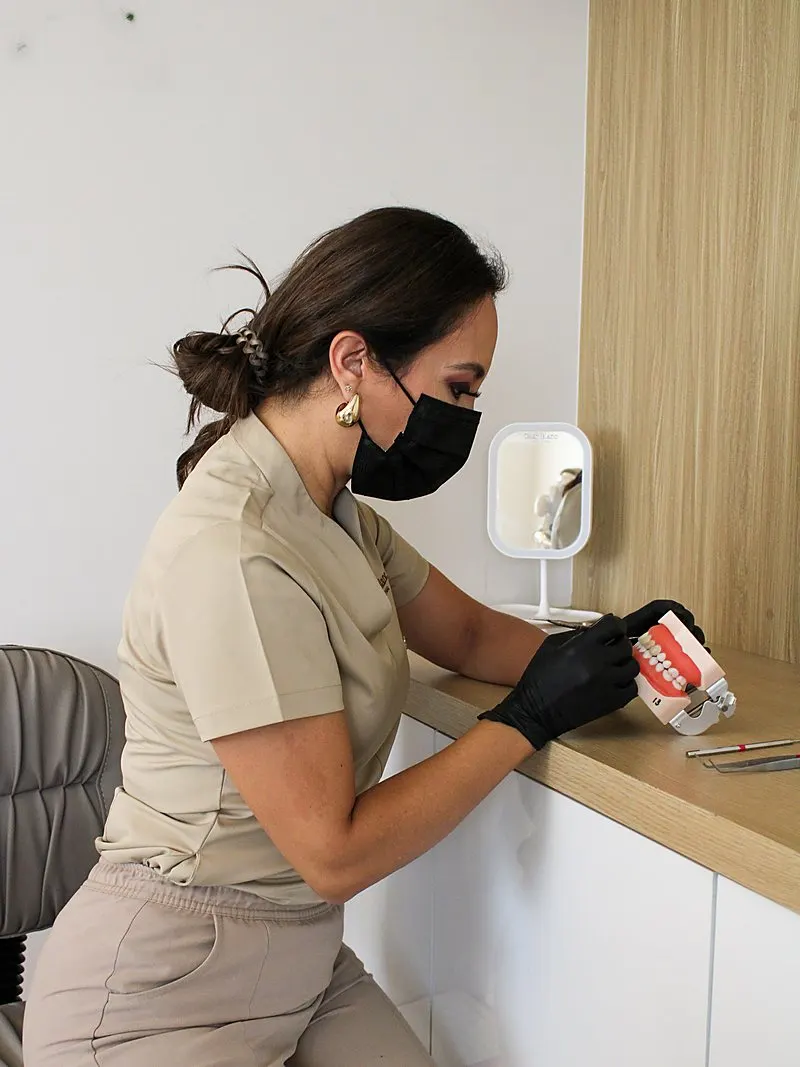
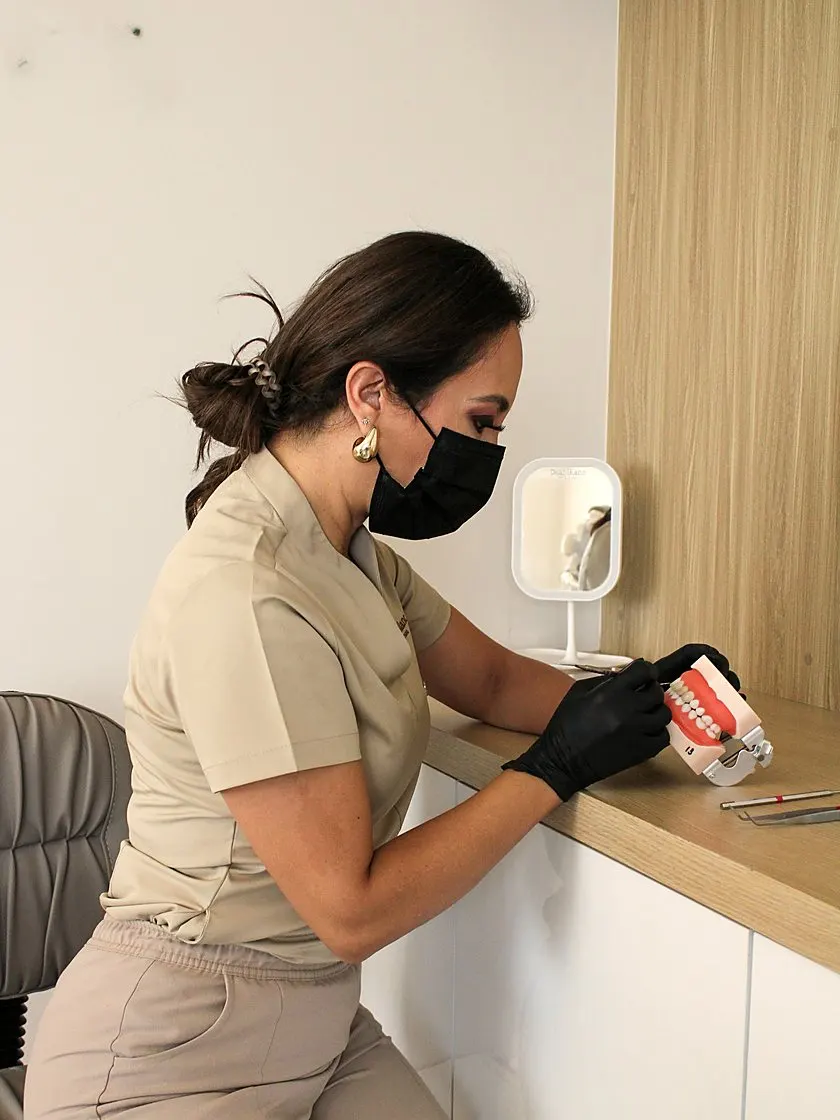
Portada nueva por dispositivo, galería en rejilla y fuera las preguntas
Portada
- Dos tomas distintas, no la misma recortada: la vertical para el teléfono y
  la apaisada para escritorio, repartidas con <source media>. El navegador
  se baja solo la que le toca.
- El fondo de estudio de las dos es un taupe cálido muy cerca del "arena"
  de la marca, así que se lleva exactamente a #D0C7BD y la portada pasa a
  ser un color de la paleta en vez de uno prestado de la foto.
- La apaisada mide 16:9 y la portada es más baja de proporción, así que
  cover recorta a lo ancho: anclada al 100% todo el recorte se come el lado
  de la cara y queda entero el hueco donde va el titular.
- El titular baja de 6rem a 4.6rem y pierde sangría: escalonado como estaba
  llegaba hasta el pelo.

Galería
- De columnas a rejilla: tres columnas, dos filas, celdas 4:5. En columnas
  cada foto conservaba su proporción y el bloque se cerraba en escalera.
  Lo que cada toma pierde de encuadre lo recupera object-position, ajustado
  una a una; la recepción al 100% para que entre el lockup completo.
- El <picture> es inline y no tenía alto propio, así que el height:100% del
  <img> se resolvía contra él: la primera foto se quedaba a media caja y
  debajo asomaba el fondo.

Filosofía
- Tono cálido: la toma salió con luz fría de consultorio y chocaba con el
  beige de la página. Se calienta por canal y se baja un punto de saturación
  para que no se vuelva naranja.
- El panel sube de 340 a 420 px y se centra contra el texto; el encuadre se
[…]

diff --git a/index.html b/index.html
@@ -81,16 +81,6 @@
   ]
 }
 </script>
-<script type="application/ld+json">
-{
-  "@context": "https://schema.org",
-  "@type": "FAQPage",
-  "mainEntity": [
-    { "@type": "Question", "name": "Me da ansiedad el dentista. ¿Qué hacen distinto?", "acceptedAnswer": { "@type": "Answer", "text": "El espacio está pensado para bajar el ritmo antes de la consulta: sala de estar cálida, aroma de firma, música suave y explicación de cada paso antes de hacerlo. Puedes pedir pausas cuando quieras." } },
-    { "@type": "Question", "name": "¿Atienden niños?", "acceptedAnswer": { "@type": "Answer", "text": "Sí, atendemos limpieza, prevención y revisión en niños. Coméntalo al agendar para reservar un horario tranquilo." } }
-  ]
-}
-</script>
 </head>
 
 <body>
@@ -155,7 +145,6 @@
         <a href="#experiencia">La experiencia</a>
         <a href="#estudio">El estudio</a>
         <a href="#ubicacion">Ubicación</a>
-        <a href="#preguntas">Preguntas</a>
       </div>
 
 
@@ -174,7 +163,6 @@
           <a href="#experiencia">La experiencia</a>
           <a href="#estudio">El estudio</a>
           <a href="#ubicacion">Ubicación</a>
-          <a href="#preguntas">Preguntas</a>
           <div class="menu__actions">
             <a class="btn btn--primary btn--wide" href="#agenda">
               <svg aria-hidden="true"><use href="#i-calendar-blank"></use></svg>Agendar cita
@@ -206,9 +194,14 @@
       <!-- En móvil la foto va debajo del texto y se ve entera. A partir de
            900px se sale de la rejilla y ocupa la mitad derecha: el titular
            cae sobre el hueco vacío de la imagen, no sobre ella. -->
+      <!-- Dos tomas distintas, no la misma recortada: la vertical para el
+           teléfono y la apaisada para escritorio. El <source media> deja que
+           el navegador se baje solo la que le toca. -->
       <picture class="hero__bg">
-        <source type="image/webp" srcset="/assets/img/portada-sonrisa-760.webp 760w, /assets/img/portada-sonrisa.webp 1173w, /assets/img/portada-sonrisa-2x.webp 2346w" sizes="(min-width: 56.25em) 62vw, 100vw">
-        <img src="/assets/img/portada-sonrisa.jpg" srcset="/assets/img/portada-sonrisa-760.jpg 760w, /assets/img/portada-sonrisa.jpg 1173w" sizes="(min-width: 56.25em) 62vw, 100vw" width="1173" height="769" alt="Paciente sonriendo, con las manos bajo el mentón" fetchpriority="high" decoding="async">
+        <source media="(min-width: 56.25em)" type="image/webp" srcset="/assets/img/portada-ancha.webp 836w, /assets/img/portada-ancha@2x.webp 1672w" sizes="100vw">
+        <source media="(min-width: 56.25em)" srcset="/assets/img/portada-ancha.jpg">
+        <source type="image/webp" srcset="/assets/img/portada-movil.webp 512w, /assets/img/portada-movil@2x.webp 1024w" sizes="100vw">
+        <img src="/assets/img/portada-movil.jpg" width="512" height="768" alt="Primer plano de una sonrisa, con la mano bajo el mentón" fetchpriority="high" decoding="async">
       </picture>
     </div>
   </section>
@@ -241,8 +234,8 @@
       </div>
       <figure class="filo__shot rv">
         <picture>
-          <source type="image/webp" srcset="/assets/img/filosofia-especialista.webp 400w, /assets/img/filosofia-especialista@2x.webp 800w" sizes="(min-width: 56.25em) 26vw, 88vw">
-          <img src="/assets/img/filosofia-especialista.jpg" srcset="/assets/img/filosofia-especialista.jpg 400w, /assets/img/filosofia-especialista@2x.jpg 800w" sizes="(min-width: 56.25em) 26vw, 88vw" width="400" height="533" loading="lazy" decoding="async" alt="Especialista de Dear Blanc explicando sobre un modelo dental en el consultorio">
+          <source type="image/webp" srcset="/assets/img/filosofia-especialista.webp 420w, /assets/img/filosofia-especialista@2x.webp 840w" sizes="(min-width: 56.25em) 26vw, 88vw">
+          <img src="/assets/img/filosofia-especialista.jpg" srcset="/assets/img/filosofia-especialista.jpg 420w, /assets/img/filosofia-especialista@2x.jpg 840w" sizes="(min-width: 56.25em) 26vw, 88vw" width="420" height="560" loading="lazy" decoding="async" alt="Especialista de Dear Blanc explicando sobre un modelo dental en el consultorio">
         </picture>
       </figure>
     </div>
@@ -662,37 +655,37 @@
   <section class="section" id="estudio">
     <div class="wrap">
       <ul class="galeria">
-        <li class="galeria__foto rv">
+        <li class="galeria__foto rv" data-foto="recepcion">
           <picture>
             <source type="image/webp" srcset="/assets/img/clinica/recepcion.webp 760w, /assets/img/clinica/recepcion@2x.webp 1520w" sizes="(min-width: 62em) 30vw, (min-width: 40em) 46vw, 88vw">
             <img src="/assets/img/clinica/recepcion.jpg" srcset="/assets/img/clinica/recepcion.jpg 760w, /assets/img/clinica/recepcion@2x.jpg 1520w" sizes="(min-width: 62em) 30vw, (min-width: 40em) 46vw, 88vw" width="760" height="570" loading="lazy" decoding="async" alt="Recepción de Dear Blanc, con el logotipo retroiluminado sobre el muro">
           </picture>
         </li>
-        <li class="galeria__foto rv">
+        <li class="galeria__foto rv" data-foto="orquidea">
           <picture>
             <source type="image/webp" srcset="/assets/img/clinica/orquidea.webp 760w, /assets/img/clinica/orquidea@2x.webp 1520w" sizes="(min-width: 62em) 30vw, (min-width: 40em) 46vw, 88vw">
             <img src="/assets/img/clinica/orquidea.jpg" srcset="/assets/img/clinica/orquidea.jpg 760w, /assets/img/clinica/orquidea@2x.jpg 1520w" sizes="(min-width: 62em) 30vw, (min-width: 40em) 46vw, 88vw" width="760" height="1140" loading="lazy" decoding="async" alt="Orquídea y marco dorado sobre el mostrador, bajo el logotipo del estudio">
           </picture>
         </li>
-        <li class="galeria__foto rv">
+        <li class="galeria__foto rv" data-foto="unidad">
           <picture>
             <source type="image/webp" srcset="/assets/img/clinica/unidad.webp 760w, /assets/img/clinica/unidad@2x.webp 1520w" sizes="(min-width: 62em) 30vw, (min-width: 40em) 46vw, 88vw">
             <img src="/assets/img/clinica/unidad.jpg" srcset="/assets/img/clinica/unidad.jpg 760w, /assets/img/clinica/unidad@2x.jpg 1520w" sizes="(min-width: 62em) 30vw, (min-width: 40em) 46vw, 88vw" width="760" height="1140" loading="lazy" decoding="async" alt="Unidad dental del consultorio, con mobiliario de roble claro al fondo">
           </picture>
         </li>
-        <li class="galeria__foto rv">
+        <li class="galeria__foto rv" data-foto="sillon">
           <picture>
             <source type="image/webp" srcset="/assets/img/clinica/sillon.webp 760w, /assets/img/clinica/sillon@2x.webp 1520w" sizes="(min-width: 62em) 30vw, (min-width: 40em) 46vw, 88vw">
             <img src="/assets/img/clinica/sillon.jpg" srcset="/assets/img/clinica/sillon.jpg 760w, /assets/img/clinica/sillon@2x.jpg 1520w" sizes="(min-width: 62em) 30vw, (min-width: 40em) 46vw, 88vw" width="760" height="507" loading="lazy" decoding="async" alt="Paciente en el sillón, con audífonos y una bebida de la casa">
           </picture>
         </li>
-        <li class="galeria__foto rv">
+        <li class="galeria__foto rv" data-foto="radiografia">
           <picture>
             <source type="image/webp" srcset="/assets/img/clinica/radiografia.webp 760w, /assets/img/clinica/radiografia@2x.webp 1520w" sizes="(min-width: 62em) 30vw, (min-width: 40em) 46vw, 88vw">
             <img src="/assets/img/clinica/radiografia.jpg" srcset="/assets/img/clinica/radiografia.jpg 760w, /assets/img/clinica/radiografia@2x.jpg 1520w" sizes="(min-width: 62em) 30vw, (min-width: 40em) 46vw, 88vw" width="760" height="1140" loading="lazy" decoding="async" alt="Pantalla con una radiografía panorámica junto al lavabo del consultorio">
           </picture>
         </li>
-        <li class="galeria__foto rv">
+        <li class="galeria__foto rv" data-foto="marco">
           <picture>
             <source type="image/webp" srcset="/assets/img/clinica/marco.webp 760w, /assets/img/clinica/marco@2x.webp 1520w" sizes="(min-width: 62em) 30vw, (min-width: 40em) 46vw, 88vw">
             <img src="/assets/img/clinica/marco.jpg" srcset="/assets/img/clinica/marco.jpg 760w, /assets/img/clinica/marco@2x.jpg 1520w" sizes="(min-width: 62em) 30vw, (min-width: 40em) 46vw, 88vw" width="760" height="1140" loading="lazy" decoding="async" alt="Marco dorado con la firma de Joanna Maruri bajo el logotipo del estudio">
@@ -742,22 +735,6 @@
     </div>
   </section>
 
-  <!-- ===== 14. Preguntas ===== -->
-  <section class="section" id="preguntas">
-    <div class="wrap">
-      <div class="head rv"><h2>Antes de agendar</h2></div>
-      <div class="faq rv">
-        <details name="faq" open>
-          <summary>Me da ansiedad el dentista. ¿Qué hacen distinto?<span class="sign" aria-hidden="true"></span></summary>
-          <p>El espacio está pensado para bajar el ritmo antes de la consulta: sala de estar cálida, aroma de firma, música suave y explicación de cada paso antes de darlo. Puedes pedir pausas cuando quieras y nadie te va a apurar.</p>
-        </details>
-        <details name="faq">
-          <summary>¿Atienden niños?<span class="sign" aria-hidden="true"></span></summary>
-          <p>Sí, atendemos limpieza, prevención y revisión en niños. Coméntalo al agendar para reservarte un horario tranquilo, con menos gente en la sala.</p>
-        </details>
-      </div>
-    </div>
-  </section>
 
   <!-- ===== 15. Último paso: agenda ===== -->
   <section class="section wrap" id="agenda">

diff --git a/css/editorial.css b/css/editorial.css
@@ -669,6 +669,7 @@ h3 {
    ========================================================================== */
 .hero {
   position: relative;
+  background: var(--paper-3);
   margin-top: calc(-1 * var(--nav-h));
   min-height: 0;
   display: block; overflow: hidden;
@@ -696,7 +697,7 @@ h3 {
    una raya recta contra la marquesina. */
 .hero__bg::before {
   content: ""; position: absolute; inset: auto 0 0 0; z-index: 1; height: 14%;
-  background: linear-gradient(0deg, var(--paper) 0%, transparent 100%);
+  background: linear-gradient(0deg, var(--paper) 0%, transparent 100%);  /* funde con la sección siguiente */
   pointer-events: none;
 }
 
@@ -734,7 +735,13 @@ h3 {
   }
   .hero__bg::after  { content: none; }
   .hero__bg::before { height: 16%; }
-  .hero__bg img { width: 100%; height: 100%; object-fit: cover; object-position: 72% bottom; }
+  /* La toma apaisada deja el hueco a la izquierda: se encuadra a la derecha
+     para que la cara quede libre y el titular caiga sobre el vacío. */
+  /* Pegada a la derecha. La toma mide 16:9 y la portada es más baja de
+     proporción, así que cover recorta a lo ancho: anclándola al 100% todo
+     el recorte se come el lado de la cara y se conserva entero el hueco de
+     la izquierda, que es donde va el titular. */
+  .hero__bg img { width: 100%; height: 100%; object-fit: cover; object-position: 100% center; }
 
   .hero__inner {
     position: relative; z-index: 2;
@@ -752,24 +759,24 @@ h3 {
     inset: -8rem -20rem -6rem calc(-1 * var(--gutter) - 60vw);
     background: radial-gradient(
       ellipse 62% 78% at 28% 62%,
-      color-mix(in srgb, var(--paper) 94%, transparent) 0%,
-      color-mix(in srgb, var(--paper) 82%, transparent) 42%,
-      color-mix(in srgb, var(--paper) 38%, transparent) 72%,
+      color-mix(in srgb, var(--paper-3) 96%, transparent) 0%,
+      color-mix(in srgb, var(--paper-3) 84%, transparent) 44%,
+      color-mix(in srgb, var(--paper-3) 36%, transparent) 74%,
       transparent 92%);
     pointer-events: none;
   }
 
-  .hero__title { font-size: clamp(3.4rem, 6.4vw, 6rem); }
+  .hero__title { font-size: clamp(2.9rem, 5vw, 4.6rem); }
   .hero__title > span { white-space: nowrap; }
-  .hero__title > span:nth-child(2) { padding-left: .55em; }
-  .hero__title > span:nth-child(3) { padding-left: 1.15em; }
+  .hero__title > span:nth-child(2) { padding-left: .35em; }
+  .hero__title > span:nth-child(3) { padding-left: .7em; }
 
   .hero__body { max-width: 30ch; margin-top: clamp(1.25rem, 2.5vh, 2rem); font-size: 1.0625rem; }
 }
 
 @media (min-width: 75em) {
   .hero__inner { width: min(100%, 66ch); }
-  .hero__title { font-size: clamp(4rem, 5.8vw, 6.5rem); }
+  .hero__title { font-size: clamp(3.4rem, 4.4vw, 5.2rem); }
 }
 
 /* En móvil la foto sube y se mete bajo la bajada: mismo principio de
@@ -778,11 +785,13 @@ h3 {
   /* El margen negativo mete la foto bajo el texto, pero con -6vw se comía
      la coronilla: en vertical el encuadre ya entra justo, así que lo único
      que recortaba la cabeza era este margen. */
-  .hero__bg { aspect-ratio: 5 / 6; margin-top: clamp(-1.25rem, -3vw, -.75rem); }
+  /* En móvil entra la toma vertical, que ya viene encuadrada: no hay que
+     recortarla, solo dejarla caer entera bajo el texto. */
+  .hero__bg { aspect-ratio: 2 / 3; margin-top: clamp(-1.25rem, -3vw, -.75rem); }
   /* 90% y no 76%: ella está a dos tercios del encuadre original, así que
      con menos el recorte la dejaba a la izquierda y sobraba fondo a la
      derecha. Medido sobre la imagen escalada, 90% la centra. */
-  .hero__bg img { object-position: 90% top; }
+  .hero__bg img { object-position: center top; }
   .hero__inner { position: relative; z-index: 2; }
   .hero__title { font-size: clamp(2.75rem, 11.5vw, 4rem); }
 }
@@ -1164,7 +1173,9 @@ h3 {
    y en las de 900 a 1100 px se estiraba deformando el encuadre. Ahora es una
    proporción fija y la imagen se recorta dentro, nunca se deforma. */
 @media (min-width: 900px) {
-  .filo { grid-template-columns: minmax(0, 1fr) clamp(240px, 26vw, 340px); align-items: start; }
+  /* El panel sube de 340 a 420 px y se centra contra el texto: a 340 la
+     foto se quedaba chica al lado de un bloque de tres párrafos. */
+  .filo { grid-template-columns: minmax(0, 1fr) clamp(280px, 30vw, 420px); align-items: center; }
   /* La imagen se saca del flujo con position:absolute. Si se queda dentro,
      su alto intrínseco (215x540, o sea muy vertical) manda sobre el
      aspect-ratio y la columna se estiraba a 836 px: una tira larga y flaca
@@ -1269,9 +1280,9 @@ h3 {
   content: ""; position: absolute; inset: 0 0 auto 0; z-index: 3;
   height: calc(var(--nav-h) + 4rem);
   background: linear-gradient(180deg,
-    var(--paper) 0%,
-    var(--paper) calc(var(--nav-h) - 4px),
-    color-mix(in srgb, var(--paper) 70%, transparent) 70%,
+    var(--paper-3) 0%,
+    var(--paper-3) calc(var(--nav-h) - 4px),
+    color-mix(in srgb, var(--paper-3) 70%, transparent) 70%,
     transparent 100%);
   pointer-events: none;
 }
@@ -1507,23 +1518,42 @@ h3 { font-size: clamp(1.05rem, 1.7vw, 1.3rem); line-height: 1.3; }
    ========================================================================== */
 .galeria {
   list-style: none; padding: 0; margin: 0;
-  columns: 1; column-gap: clamp(.65rem, 1.6vw, 1rem);
+  display: grid; gap: clamp(.5rem, 1.2vw, .9rem);
+  grid-template-columns: minmax(0, 1fr);
 }
-@media (min-width: 40em) { .galeria { columns: 2; } }
-@media (min-width: 62em) { .galeria { columns: 3; } }
+@media (min-width: 40em) { .galeria { grid-template-columns: repeat(2, minmax(0, 1fr)); } }
+@media (min-width: 62em) { .galeria { grid-template-columns: repeat(3, minmax(0, 1fr)); } }
 
+/* Todas las celdas con la misma proporción. Antes la galería iba en
+   columnas y cada foto conservaba la suya: las columnas acababan a alturas
+   distintas y el bloque se cerraba en escalera. Con seis fotos y tres
+   columnas, 4:5 da dos filas llenas y un rectángulo perfecto; lo que cada
+   toma pierde de encuadre lo recupera object-position, ajustado una a una. */
 .galeria__foto {
-  break-inside: avoid;                 /* que una foto no se parta en dos columnas */
-  margin-bottom: clamp(.65rem, 1.6vw, 1rem);
-  overflow: hidden; position: relative;
+  position: relative; overflow: hidden;
+  aspect-ratio: 4 / 5;
   border: 1px solid var(--line);
   background: var(--paper-2);
 }
+/* El <picture> es inline y sin alto propio, así que el height:100% del
+   <img> se resolvía contra él y no contra la celda: la foto se quedaba a
+   media caja y debajo asomaba el fondo. */
+.galeria__foto picture { display: block; width: 100%; height: 100%; }
 .galeria__foto img {
-  display: block; width: 100%; height: auto;
+  display: block; width: 100%; height: 100%;
+  object-fit: cover;
   transition: transform .8s var(--ease);
 }
-.galeria__foto:hover img { transform: scale(1.03); }
+.galeria__foto:hover img { transform: scale(1.04); }
+
+/* Encuadre por foto: las dos apaisadas y la del sillón necesitan que el
+   recorte 4:5 caiga donde está el motivo, no en el centro geométrico. */
+.galeria__foto[data-foto="recepcion"]   img { object-position: 100% center; }
+.galeria__foto[data-foto="sillon"]      img { object-position: 54% 32%; }
+.galeria__foto[data-foto="orquidea"]    img { object-position: center 38%; }
+.galeria__foto[data-foto="radiografia"] img { object-position: 58% 42%; }
+.galeria__foto[data-foto="unidad"]      img { object-position: center 45%; }
+.galeria__foto[data-foto="marco"]       img { object-position: center 55%; }
 
 @media (prefers-reduced-motion: reduce) {
   .galeria__foto:hover img { transform: none; }
